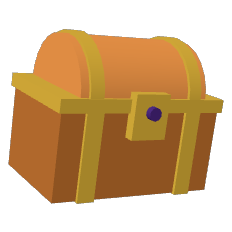
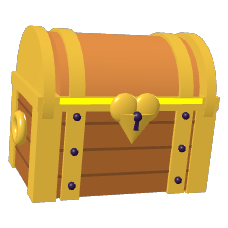
Baús mais ricos (metal, rebites, fechadura em coração, joias, luz na fresta) e abertura com suspense: toques, raios na cor do melhor prêmio, clarão e faíscas
Claude-Session: https://claude.ai/code/session_01VihRQC9mCPmgLSwEXYntza

diff --git a/ANDAMENTO.md b/ANDAMENTO.md
@@ -210,6 +210,14 @@ atalho de teclado, disquete...). **Não usar os logos oficiais do Word/Excel**
     qualidade MÉDIA, 18 na ALTA), pingos de chocolate caindo da fonte e
     faíscas douradas nos presentes do dia ainda não abertos. Só com as
     animações ligadas e placa de vídeo (print: `--animacoes`).
+  - **Baús novos** (`Itens3D._bau`, fotos refeitas): tábuas, cantoneiras e
+    faixas de metal com rebites, alças, fechadura em coração, joia na frente
+    (safira na prata, rubi no ouro, ametista no chefe), coroinha no ouro e no
+    chefe, laço e listras no de doce, e luz dourada escapando pela fresta.
+    Aberto: luz forte, moedas e joias. **Abertura com suspense**
+    (`cenas/baus.gd`): toque no baú (ou espere, ele abre sozinho), ele treme
+    mais forte a cada toque, raios de luz NA COR DO MELHOR PRÊMIO crescem
+    atrás, clarão, faíscas e "ÉPICO!"/"UAU! LENDÁRIO!".
   - **Ainda sem APK com os terrenos e os 12 doces novos** (a 0.11.0 tem o
     Doce Match, o pódio, os enfeites por nível e o carregamento novo).
 
@@ -402,7 +410,7 @@ atalho de teclado, disquete...). **Não usar os logos oficiais do Word/Excel**
 
 ## Como trabalhar no projeto
 
-- **Testes:** `godot/testes/rodar.sh` (1.691 verificações; falha também em erro
+- **Testes:** `godot/testes/rodar.sh` (1.692 verificações; falha também em erro
   de script). Rode antes de cada commit.
 - **Print de uma tela:** `ferramentas/capturar.sh niveis` → `build/prints/niveis.png`.
   Opções em `godot/scripts/ferramentas/captura.gd` (ex.: `--acertos=7`,
